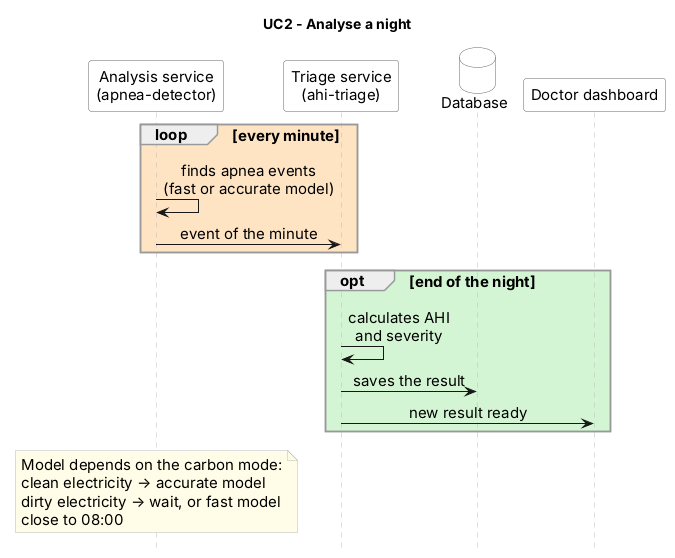
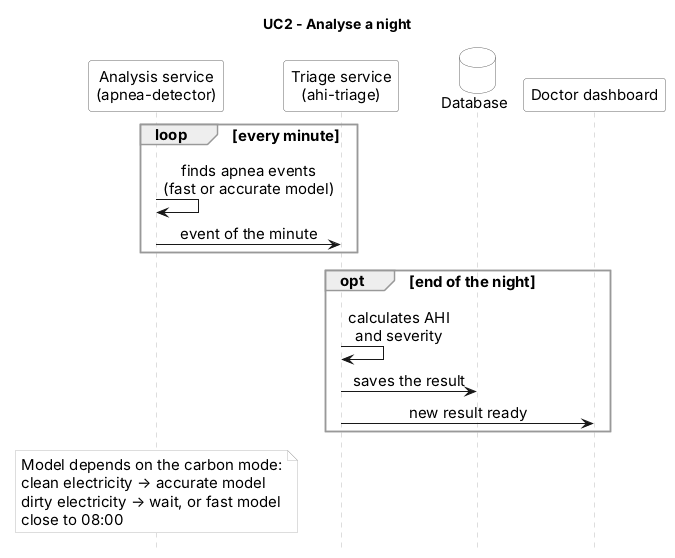
update usecase diagrams

Changed region(s): [[0.4667, 0.4875, 0.9022, 0.7921], [0.1867, 0.2133, 0.5289, 0.457]]

diff --git a/diagrams/usecases/10.11_A_UC2-analyse-a-night_v1.md b/diagrams/usecases/10.11_A_UC2-analyse-a-night_v1.md
@@ -1,6 +1,6 @@
 # UC2 – Analyse a night
 
-Part of the [sequence diagram v2](../30.10_B_sequence-diagram_v2.md) (grey, orange and green blocks). Use cases overview: [README](../../README.md#use-cases). · Source (PlantUML): [10.11_A_UC2-analyse-a-night_v1.puml](10.11_A_UC2-analyse-a-night_v1.puml) · Image: [10.11_A_UC2-analyse-a-night_v1.png](10.11_A_UC2-analyse-a-night_v1.png)
+Part of the [sequence diagram v2](../30.10_B_sequence-diagram_v2.md). Use cases overview: [README](../../README.md#use-cases). · Source (PlantUML): [10.11_A_UC2-analyse-a-night_v1.puml](10.11_A_UC2-analyse-a-night_v1.puml) · Image: [10.11_A_UC2-analyse-a-night_v1.png](10.11_A_UC2-analyse-a-night_v1.png)
 
 | | |
 | --- | --- |

diff --git a/diagrams/usecases/10.11_A_UC4-review-a-result_v1.md b/diagrams/usecases/10.11_A_UC4-review-a-result_v1.md
@@ -1,6 +1,6 @@
 # UC4 – Review a result
 
-Part of the [sequence diagram v2](../30.10_B_sequence-diagram_v2.md) (yellow block). Use cases overview: [README](../../README.md#use-cases). · Source (PlantUML): [10.11_A_UC4-review-a-result_v1.puml](10.11_A_UC4-review-a-result_v1.puml) · Image: [10.11_A_UC4-review-a-result_v1.png](10.11_A_UC4-review-a-result_v1.png)
+Part of the [sequence diagram v2](../30.10_B_sequence-diagram_v2.md). Use cases overview: [README](../../README.md#use-cases). · Source (PlantUML): [10.11_A_UC4-review-a-result_v1.puml](10.11_A_UC4-review-a-result_v1.puml) · Image: [10.11_A_UC4-review-a-result_v1.png](10.11_A_UC4-review-a-result_v1.png)
 
 | | |
 | --- | --- |

diff --git a/diagrams/usecases/10.11_A_UC1-send-night-data_v1.md b/diagrams/usecases/10.11_A_UC1-send-night-data_v1.md
@@ -1,6 +1,6 @@
 # UC1 – Send night data
 
-Part of the [sequence diagram v2](../30.10_B_sequence-diagram_v2.md) (blue block). Use cases overview: [README](../../README.md#use-cases). · Source (PlantUML): [10.11_A_UC1-send-night-data_v1.puml](10.11_A_UC1-send-night-data_v1.puml) · Image: [10.11_A_UC1-send-night-data_v1.png](10.11_A_UC1-send-night-data_v1.png)
+Part of the [sequence diagram v2](../30.10_B_sequence-diagram_v2.md). Use cases overview: [README](../../README.md#use-cases). · Source (PlantUML): [10.11_A_UC1-send-night-data_v1.puml](10.11_A_UC1-send-night-data_v1.puml) · Image: [10.11_A_UC1-send-night-data_v1.png](10.11_A_UC1-send-night-data_v1.png)
 
 | | |
 | --- | --- |

diff --git a/diagrams/usecases/10.11_A_UC3-raise-an-alert_v1.md b/diagrams/usecases/10.11_A_UC3-raise-an-alert_v1.md
@@ -1,6 +1,6 @@
 # UC3 – Raise an alert
 
-Part of the [sequence diagram v2](../30.10_B_sequence-diagram_v2.md) (red block). Use cases overview: [README](../../README.md#use-cases). · Source (PlantUML): [10.11_A_UC3-raise-an-alert_v1.puml](10.11_A_UC3-raise-an-alert_v1.puml) · Image: [10.11_A_UC3-raise-an-alert_v1.png](10.11_A_UC3-raise-an-alert_v1.png)
+Part of the [sequence diagram v2](../30.10_B_sequence-diagram_v2.md). Use cases overview: [README](../../README.md#use-cases). · Source (PlantUML): [10.11_A_UC3-raise-an-alert_v1.puml](10.11_A_UC3-raise-an-alert_v1.puml) · Image: [10.11_A_UC3-raise-an-alert_v1.png](10.11_A_UC3-raise-an-alert_v1.png)
 
 | | |
 | --- | --- |

diff --git a/diagrams/usecases/README.md b/diagrams/usecases/README.md
@@ -1,6 +1,6 @@
 # Use cases – detailed
 
-One file per use case: actor, goal, main flow, alternative flows and a sequence diagram (PlantUML: `.puml` source + `.png` image). They are cut out of the [sequence diagram v2](../30.10_B_sequence-diagram_v2.md) and use the same colours.
+One file per use case: actor, goal, main flow, alternative flows and a sequence diagram (PlantUML: `.puml` source + `.png` image). They are cut out of the [sequence diagram v2](../30.10_B_sequence-diagram_v2.md), in black and white.
 
 | # | Use case | Actor | File |
 | --- | --- | --- | --- |
